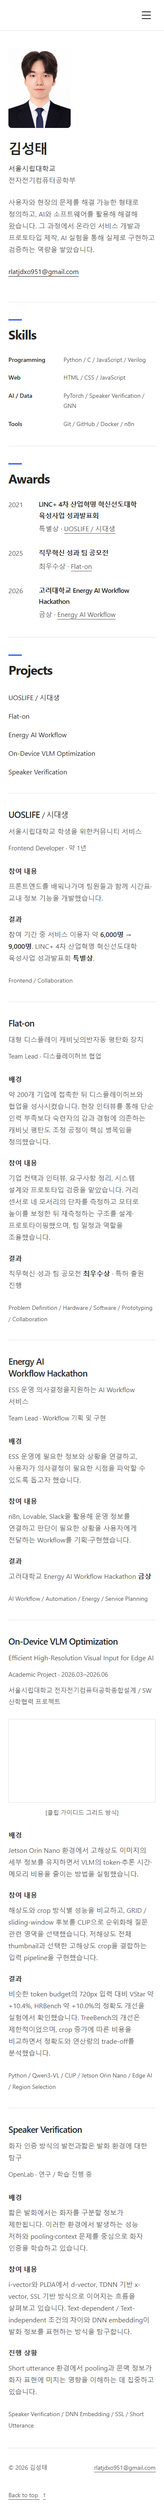
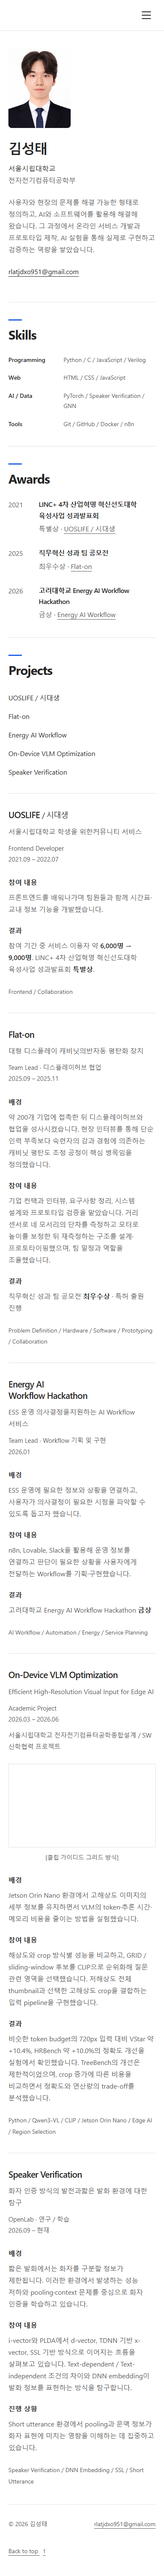
feat: add consistent dates to all portfolio projects

diff --git a/index.html b/index.html
@@ -69,7 +69,8 @@
         <header class="project-heading">
           <h3 id="uoslife-title">UOSLIFE <span class="title-secondary">/ 시대생</span></h3>
           <p class="project-summary">서울시립대학교 학생을 위한<br />커뮤니티 서비스</p>
-          <p class="meta">Frontend Developer · 약 1년</p>
+          <p class="meta">Frontend Developer</p>
+          <p class="meta"><time datetime="2021-09">2021.09</time> – <time datetime="2022-07">2022.07</time></p>
         </header>
         <div class="project-body">
           <dl class="project-details">
@@ -86,6 +87,7 @@
           <h3 id="flat-on-title">Flat-on</h3>
           <p class="project-summary">대형 디스플레이 캐비닛의<br />반자동 평탄화 장치</p>
           <p class="meta">Team Lead · 디스플레이허브 협업</p>
+          <p class="meta"><time datetime="2025-09">2025.09</time> – <time datetime="2025-11">2025.11</time></p>
         </header>
         <div class="project-body">
           <dl class="project-details">
@@ -104,6 +106,7 @@
           <h3 id="energy-title">Energy AI<br />Workflow Hackathon</h3>
           <p class="project-summary">ESS 운영 의사결정을<br />지원하는 AI Workflow 서비스</p>
           <p class="meta">Team Lead · Workflow 기획 및 구현</p>
+          <p class="meta"><time datetime="2026-01">2026.01</time></p>
         </header>
         <div class="project-body">
           <dl class="project-details">
@@ -121,7 +124,8 @@
         <header class="project-heading">
           <h3 id="vlm-title">On-Device VLM Optimization</h3>
           <p class="project-summary">Efficient High-Resolution Visual Input for Edge AI</p>
-          <p class="meta">Academic Project · 2026.03–2026.06</p>
+          <p class="meta">Academic Project</p>
+          <p class="meta"><time datetime="2026-03">2026.03</time> – <time datetime="2026-06">2026.06</time></p>
           <p class="meta project-affiliation">서울시립대학교 전자전기컴퓨터공학종합설계 / SW 산학협력 프로젝트</p>
           <figure class="project-figure">
             <a href="./images/clip_guided%20grid.png" target="_blank" rel="noopener noreferrer" aria-label="CLIP-guided GRID 방식 설명 이미지 원본 보기 (새 탭)">
@@ -146,7 +150,8 @@
         <header class="project-heading">
           <h3 id="speaker-title">Speaker Verification</h3>
           <p class="project-summary">화자 인증 방식의 발전과<br />짧은 발화 환경에 대한 탐구</p>
-          <p class="meta">OpenLab · 연구 / 학습 진행 중</p>
+          <p class="meta">OpenLab · 연구 / 학습</p>
+          <p class="meta"><time datetime="2026-09">2026.09</time> – 현재</p>
         </header>
         <div class="project-body">
           <dl class="project-details">

diff --git a/README.md b/README.md
@@ -74,7 +74,7 @@ portfolio/
 - LinkedIn: 실제 URL이 있을 때만 푸터에 추가합니다.
 - 프로젝트 이미지: VLM에는 `images/clip_guided grid.png`와 방식 설명 캡션을 표시합니다. 이미지를 누르면 새 탭에서 원본을 확인할 수 있습니다. 다른 프로젝트도 실제 장치·서비스·Workflow 화면을 준비한 후 해당 article에 설명과 함께 추가합니다. 원본 비율, 이미지 크기, 의미 있는 대체 텍스트를 지정합니다.
 - 프로젝트 URL: 공개 가능한 저장소, 서비스 또는 발표 자료의 실제 링크를 각 프로젝트에 추가합니다.
-- 기간: UOSLIFE의 정확한 활동 기간, Flat-on 활동 기간과 재학 기간은 확인 후 기입합니다.
+- 프로젝트 기간: 시대생 2021.09 – 2022.07, Flat-on 2025.09 – 2025.11, Energy AI 2026.01, VLM 2026.03 – 2026.06, SV 2026.09 – 현재.
 - 이력서: 실제 PDF를 준비한 뒤 Hero에 링크를 추가할 수 있습니다.
 - 특허 출원과 OpenLab 진행 상황은 변경될 때 갱신합니다.
 
